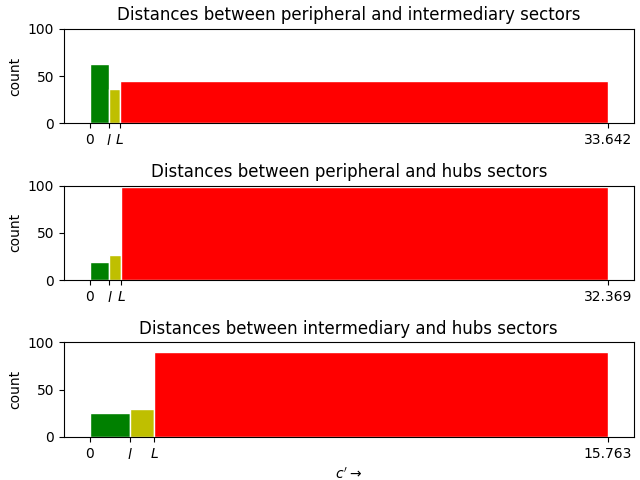
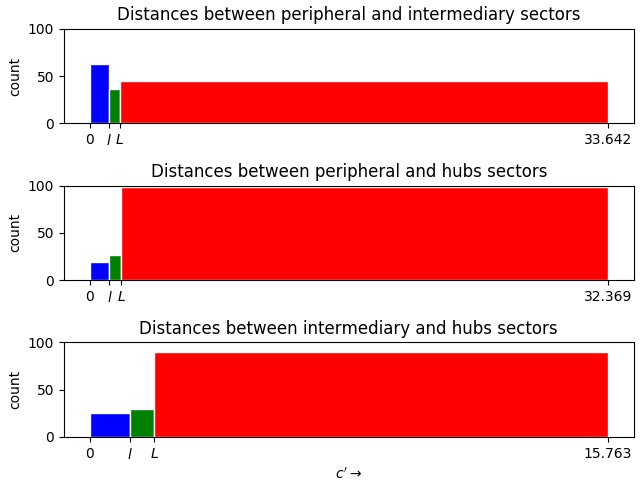
terminada primeira versao do artigo

Changed region(s): [[0.125, 0.8438, 0.25, 0.9375], [0.125, 0.125, 0.1875, 0.2812], [0.125, 0.5312, 0.1875, 0.5938]]

diff --git a/physicaa/elsarticle-template.tex b/physicaa/elsarticle-template.tex
@@ -1,6 +1,19 @@
 \documentclass[review]{elsarticle}
 
 \usepackage{lineno,hyperref}
+\usepackage{xcolor}
+\hypersetup{
+	%pagebackref=true,
+	pdfcreator={LaTeX with abnTeX2},
+	pdfkeywords={abnt}{latex}{abntex}{USPSC}{trabalho acadêmico}, 
+	colorlinks=true,       		% false: boxed links; true: colored links
+	linkcolor=blue,          	% color of internal links
+	citecolor=blue,        		% color of links to bibliography
+	filecolor=magenta,      		% color of file links
+	urlcolor=blue,
+	allbordercolors=black,
+	bookmarksdepth=4
+}
 \modulolinenumbers[5]
 \usepackage{amsmath}
 \usepackage{float}
@@ -215,14 +228,14 @@ These lists are as follows:
 \item List for discussion of the election reform\footnote{gmane.politics.election-methods is list ID in Gmane.}. English is the prevailing language. Abbreviated ELE from now on.
 \end{itemize} 
 
-Table~\ref{tab:genLists} holds an overview of the messages considered in each of these lists.
+Table~\ref{tab:genLists} holds an overview of the messages in each of these lists.
 MET was not used for the textual measurements because most messages are not written in English.
 The selection of these lists was performed in preliminary stages of this work,
 in compliance with~\cite{stab,thesis}, as a convenient, small and diverse set of lists to be considered in depth, and has no impact on the results as they are used only for illustration in Table~\ref{tab:genLists} and Section~\ref{subsec:di}.
 
 \begin{table}
 \centering
-\caption{Columns $date_1$ and $date_M$ have dates of first and last messages from the 20,000 messages considered in each email list.
+\caption{Columns $date_1$ and $date_M$ have dates of first and last messages from the 20,000 messages in each email list.
 $N$ is the number of participants (number of different email addresses),
 $\Gamma$ is the number of discussion threads (count of messages without antecedent),
 $\overline{M}$ is the number of messages missing in the 20,000 collection
@@ -260,7 +273,7 @@ and small-world properties, as expected for a number of social networks~\cite{bi
 \begin{figure}[!h]
 \centering
 \includegraphics[width=0.5\textwidth]{figs/criaRede3_}
-\caption{The formation of interaction networks from exchanged messages. Each node represents a participant. A reply from author B to a message from author A is regarded as evidence that B received information from A and yields a directed edge. Multiple messages add ``weight'' to a directed edge. Further details are given in Section~\ref{intNet}.}
+\caption{The formation of interaction networks from exchanged messages. Each node represents a participant. A reply from author B to a message from author A is regarded as evidence that B received information from A and yields a directed edge. Multiple messages add ``weight'' to a directed edge. Further information is provided in Section~\ref{intNet}.}
 \label{formationNetwork}
 \end{figure}
 
@@ -329,12 +342,9 @@ but results hold for sectors obtained using the strength.
 \includegraphics[width=\textwidth]{figs/fser__}
 \caption{Classification of vertices by comparing degree
 distributions~\cite{stab}.
-The binomial distribution of the Erd\"os-R\'enyi network model exhibits more intermediary vertices, while a scale-free network, associated with the power-law distribution, has more peripheral and hub vertices. The sector borders are defined with respect to the intersections of the distributions. Characteristic degrees are in the compact intervals: $[0,k_L]$, $(k_L,k_R]$, $(k_R,k_{max}]$ for the periphery, intermediary and hub sectors, the ``Erd\"os sectors''.
-The connectivity distribution of empirical interaction networks, e.g. derived from email lists, can be sectioned by comparison against the associated binomial distribution with the same number of vertices and edges. In this figure, a snapshot of 1000 messages from CPP list yields the degree distribution of an interaction network of 98 nodes and 235 edges. A thorough explanation of the method is provided in Section~\ref{sectioning}.}
+The binomial distribution of the Erd\"os-R\'enyi network model exhibits more intermediary vertices, while a scale-free network, associated with the power-law distribution, has more peripheral and hub vertices. The sector borders are defined with respect to the intersections of the distributions. Characteristic degrees are in the compact intervals: $[0,k_L]$, $(k_L,k_R]$, $(k_R,k_{max}]$ for the peripheral, intermediary and hubs sectors: the ``Erd\"os sectors''.
+Accordingly, the connectivity distribution of empirical interaction networks, e.g. derived from email lists, can be sectioned by comparison against the associated binomial distribution with the same number of vertices and edges. In this figure, a snapshot of 1000 messages from the CPP list yields the degree distribution of an interaction network of 98 nodes and 235 edges. A thorough explanation of the method is provided in Section~\ref{sectioning}.}
 \label{fig:setores}
-\begin{flushleft}\footnotesize
-Source: By the author.\
-\end{flushleft}
 \end{figure}
 
 \subsection{Text-related measures}
@@ -380,7 +390,7 @@ The topological and textual measures were related by:
 \item Principal components formation derived from the usual Principal Component Analysis.
 \end{enumerate}
 
-\subsection{Statistical distances}
+\subsection{Statistical distances}\label{sstat}
 An adaptation of the Kolmogorov-Smirnov test~\cite{kolm} was used to observe differences in textual content, as follows.
 Let $F$ and $F'$ be two empirical distribution functions, where $n$ and $n'$ are the number of observations on each sample.
 The two-sample Kolmogorov-Smirnov test rejects the null hypothesis, that the samples are drawn from the same underlying distribution, if:
@@ -495,8 +505,8 @@ distinct sectors, there was no evidence of difference on the size of the threads
 \subsection{Evidence that the texts from Erd\"os sectors differ}\label{subsec:di}
 This is the most important outcome from this paper: there strong enough evidence
 to support the assertion that the language used by distinct Erd\"os sectors are different.
-Tables~\ref{tab:kolTok}-\ref{tab:kolPctInter}
-illustrate three results:
+Figure~\ref{fdif} illustrates, and Tables~\ref{tab:kolTok}-\ref{tab:kolPctInter}
+exemplify three results:
 \begin{itemize}
  \item The statistical evidence that the textual production of the Erd\"os sectors is different.
 	 This can be noticed from the high values of $c'$ on these tables, clearly above reference values used for the acceptance of the null hypothesis (the null hypothesis being that the probability distributions generating the samples are the same). Also, we regarded as non-negligible the values often above 0.1 for the Kolmogorov-Smirnov statistics (the maximum difference between the cumulative distributions), which we recognized as relevant for assuming differences in the underlying distributions in our study (see Section~\ref{sec:ks}).
@@ -506,6 +516,19 @@ against the periphery and hubs than these extreme sectors between themselves
 This differentiation of the three sectors is a further indicative that the Erd\"os Sectioning described in Section~\ref{sectioning} reveals meaningful sectors of the networks.
  \item The evidence of difference (as measured by $c'$) between sectors on the same network (Tables~\ref{tab:kolTok}-\ref{tab:kolPct}) is often larger than found between the same sector from distinct networks (Tables~\ref{tab:kolSubInter}-\ref{tab:kolPctInter}).
  \end{itemize}
+
+\begin{figure}[!h]
+\centering
+\includegraphics[width=0.9\textwidth]{figs/hists}
+  \caption{Histograms of the $c'$ statistic between the Erd\"os sectos for all the language-related measurements performed. The histogram bins are limited by the values $l=1.22$, and $L=1.95$, which are related to the significance levels of 0.1 and 0.001, respectively, as described in Section~\ref{sstat}. 
+  In qualitative terms, one may associate the bars to:
+  measurements that are not evidence of difference (blue),
+  measurements that are evidence of difference (green),
+  and measurements that are strong evidence of difference (red).
+  Notice that, although the $c'$ values obtained by comparing the peripheral and intermediary sectors present less values in the red bar, the values reach the magnitudes comparable to the highest values obtained by comparing the peripheral and hubs sectors.
+  Further information is provided in Section~\ref{subsec:di}.}
+\label{fdif}
+\end{figure}
 
 Two measurements for each pair of sectors are in Tables~\ref{tab:kolTok}-\ref{tab:kolPct}.
  The top value is $c'$ while the bottom value is the Kolmogorov-Smirnov statistic.

diff --git a/physicaa/tables/ksInter.tex b/physicaa/tables/ksInter.tex
@@ -1,7 +1,6 @@
 \begin{table}
   \centering
   \caption{$c'$ values for the frequency of use of nouns. Comparison of the same sector between lists, each author is an observation. See subsection~\ref{subsec:di} for discussion and directions.}
-    \small
   \begin{tabular}{l| c c c c c c}
 & CPP-LAD & CPP-LAU & CPP-ELE & LAD-LAU & LAD-ELE & LAU-ELE \\\hline
 P & 1.35 & 4.05 & 5.80 & 3.00 & 5.41 & 4.94 \\
@@ -14,7 +13,6 @@ H & 0.98 & 1.94 & 3.17 & 1.32 & 3.82 & 4.47 \\
 \begin{table}
   \centering
   \caption{$c'$ values for the frequency of use of adjectives. Comparison of the same sector between lists, each author is an observation. See subsection~\ref{subsec:di} for discussion and directions.}
-    \small
   \begin{tabular}{l| c c c c c c}
  & CPP-LAD & CPP-LAU & CPP-ELE & LAD-LAU & LAD-ELE & LAU-ELE \\\hline
 P & 0.44 & 0.34 & 2.57 & 0.20 & 2.32 & 2.37 \\
@@ -27,7 +25,6 @@ H & 0.26 & 0.32 & 3.72 & 0.29 & 4.36 & 4.24 \\
 \begin{table}
   \centering
   \caption{$c'$ values for the frequency of use stopwords. Comparison of the same sector between lists, each author is an observation. See subsection~\ref{subsec:di} for discussion and directions.}
-    \small
   \begin{tabular}{l| c c c c c c}
  & CPP-LAD & CPP-LAU & CPP-ELE & LAD-LAU & LAD-ELE & LAU-ELE \\\hline
 P & 3.31 & 3.26 & 6.68 & 0.57 & 5.36 & 5.41 \\
@@ -40,7 +37,6 @@ H & 0.98 & 0.68 & 4.35 & 1.05 & 4.73 & 5.01 \\
 \begin{table}
   \centering
   \caption{$c'$ values for the frequency of use of punctuations among characters. Comparison of the same sector between lists, each author is an observation. See subsection~\ref{subsec:di} for discussion and directions.}
-    \small
   \begin{tabular}{l| c c c c c c}
  & CPP-LAD & CPP-LAU & CPP-ELE & LAD-LAU & LAD-ELE & LAU-ELE \\\hline
 P & 5.74 & 4.88 & 8.28 & 2.23 & 5.37 & 6.60 \\

diff --git a/physicaa/scripts/mkFigure.py b/physicaa/scripts/mkFigure.py
@@ -37,8 +37,8 @@ import pylab as p
 
 f=p.subplot(311)
 N, bins, patches = p.hist(pis, [0,1.22,1.95,max(pis)], edgecolor='white', linewidth=1)
-patches[0].set_facecolor('g')
-patches[1].set_facecolor('y')
+patches[0].set_facecolor('b')
+patches[1].set_facecolor('g')
 patches[2].set_facecolor('r')
 p.xticks((0,1.22,1.95,max(pis)), (0, r'$l$', r'$L$', max(pis))) # , rotation='vertical')
 p.ylabel('count')
@@ -47,8 +47,8 @@ p.title('Distances between peripheral and intermediary sectors')
 
 p.subplot(312)
 N, bins, patches = p.hist(phs, [0,1.22,1.95,max(phs)], edgecolor='white', linewidth=1)
-patches[0].set_facecolor('g')
-patches[1].set_facecolor('y')
+patches[0].set_facecolor('b')
+patches[1].set_facecolor('g')
 patches[2].set_facecolor('r')
 p.xticks((0,1.22,1.95,max(phs)), (0,r'$l$',r'$L$', max(phs)))
 p.ylabel('count')
@@ -57,8 +57,8 @@ p.title('Distances between peripheral and hubs sectors')
 
 p.subplot(313)
 N, bins, patches = p.hist(ihs, [0,1.22,1.95,max(ihs)], edgecolor='white', linewidth=1)
-patches[0].set_facecolor('g')
-patches[1].set_facecolor('y')
+patches[0].set_facecolor('b')
+patches[1].set_facecolor('g')
 patches[2].set_facecolor('r')
 p.xticks((0,1.22,1.95,max(ihs)), (0,r'$l$',r'$L$', max(ihs)))
 p.xlabel(r"$c' \rightarrow$")

diff --git a/physicaa/tables/geralInline_.tex b/physicaa/tables/geralInline_.tex
@@ -1,10 +1,10 @@
 \begin{table}[h!]
 \begin{center}
-\caption{Distribution of participants, messages and threads among each Erd\"os sector: ({\bf p.} for periphery, {\bf i.} for intermediary, 
+\caption{Participants, messages and threads among each Erd\"os sector: ({\bf p.} for periphery, {\bf i.} for intermediary, 
     {\bf h.} for hubs) in a total timespan of 0.72 years (from 2003-11-30T20:21:32 to 2004-08-19T18:11:24). $N$ is the number of participants, $M$ is the number of messages, $\Gamma$ is the number of threads, and $\gamma$ is the number of messages in a thread.
     The \% denotes the usual `per cent' with respect to the total quantity ($100\%$ for {\bf g.})
 	while $\mu$ and $\sigma$ denote mean and standard deviation. TAG of list: 10}\label{geralListas}    
-\begin{tabular}{l | c c c c}
+\begin{tabular}{l ? c | c c c}
  & {\bf g.} & {\bf p.} & {\bf i.} & {\bf h.} \\\specialrule{1.5pt}{1pt}{1pt}
 $N$ & 131  & 80  & 46  & 5 \\
 $N_{\%}$ & 100.00  & 61.07  & 35.11  & 3.82 \\\hline

diff --git a/physicaa/tables/ksPuns___.tex b/physicaa/tables/ksPuns___.tex
@@ -1,7 +1,7 @@
 \begin{table}[h!]
 \begin{center}
 	\caption{Measurements of $c'$ and the KS statistic related to the frequency of use of punctuations between the Erd\"os sectors and the whole network. The abbreviations are: g for global, p for peripheral, i for intermediary, h for hubs. See Section~\ref{sec:ks} for and explanation of the measures and Section~\ref{subsec:di} for discussion. TAG of list: 8}\label{tab:kolPct}
-\begin{tabular}{l | c c c c c c}
+\begin{tabular}{l ? c c c | c c c}
 {\bf } & {\bf p-g} & {\bf i-g} & {\bf h-g} & {\bf p-i} & {\bf p-h} & {\bf i-h} \\\hline
 $c'$ & 1.380  & 3.583  & 2.894  & 1.718  & 2.871  & 5.398 \\
 KS & 0.039  & 0.069  & 0.046  & 0.054  & 0.085  & 0.114 \\

diff --git a/physicaa/tables/ksSubs___.tex b/physicaa/tables/ksSubs___.tex
@@ -1,7 +1,7 @@
 \begin{table}[h!]
 \begin{center}
 \caption{Measurements of $c'$ and the KS statistic related to the frequency of use of nouns between the Erd\"os sectors and the whole network. The abbreviations are: g for global, p for peripheral, i for intermediary, h for hubs. See Section~\ref{sec:ks} for and explanation of the measures and Section~\ref{subsec:di} for discussion. TAG of list: 1}\label{tab:kolSub}
-\begin{tabular}{l | c c c c c c}
+\begin{tabular}{l ? c c c | c c c}
 {\bf } & {\bf p-g} & {\bf i-g} & {\bf h-g} & {\bf p-i} & {\bf p-h} & {\bf i-h} \\\hline
 $c'$ & 0.642  & 1.791  & 6.936  & 1.007  & 6.970  & 7.510 \\
 KS & 0.023  & 0.067  & 0.537  & 0.044  & 0.560  & 0.607 \\

diff --git a/physicaa/tables/ksAdjs___.tex b/physicaa/tables/ksAdjs___.tex
@@ -1,7 +1,7 @@
 \begin{table}[h!]
 \begin{center}
 \caption{Measurements of $c'$ and the KS statistic related to the frequency of use of adjectives between the Erd\"os sectors and the whole network. The abbreviations are: g for global, p for peripheral, i for intermediary, h for hubs. See Section~\ref{sec:ks} for and explanation of the measures and Section~\ref{subsec:di} for discussion. TAG of list: 3}
-\begin{tabular}{l | c c c c c c}
+\begin{tabular}{l ? c c c | c c c}
 {\bf } & {\bf p-g} & {\bf i-g} & {\bf h-g} & {\bf p-i} & {\bf p-h} & {\bf i-h} \\\hline
 $c'$ & 0.461  & 0.564  & 0.617  & 0.385  & 0.800  & 0.986 \\
 KS & 0.011  & 0.010  & 0.010  & 0.011  & 0.021  & 0.020 \\

diff --git a/physicaa/tables/ksTokens___.tex b/physicaa/tables/ksTokens___.tex
@@ -2,7 +2,7 @@
 \begin{center}
 	\caption{Measurements of $c'$ and the KS statistic related to sizes of tokens between the Erd\"os sectors and the whole network. The abbreviations are: g for global, p for peripheral, i for intermediary, h for hubs. See Section~\ref{sec:ks} for and explanation of the measures and Section~\ref{subsec:di} for discussion. TAG of list: 6}
 \label{tab:kolTok}
-\begin{tabular}{l | c c c c c c}
+\begin{tabular}{l ? c c c | c c c}
 {\bf } & {\bf p-g} & {\bf i-g} & {\bf h-g} & {\bf p-i} & {\bf p-h} & {\bf i-h} \\\hline
 $c'$ & 4.327  & 17.168  & 7.851  & 18.907  & 7.833  & 15.540 \\
 KS & 0.014  & 0.115  & 0.044  & 0.129  & 0.045  & 0.129 \\

diff --git a/physicaa/tables/ksWords___.tex b/physicaa/tables/ksWords___.tex
@@ -1,7 +1,7 @@
 \begin{table}[h!]
 \begin{center}
 \caption{Measurements of $c'$ and the KS statistic related to sizes of known words between the Erd\"os sectors and the whole network. The abbreviations are: g for global, p for peripheral, i for intermediary, h for hubs. See Section~\ref{sec:ks} for and explanation of the measures and Section~\ref{subsec:di} for discussion. TAG of list: 1}
-\begin{tabular}{l | c c c c c c}
+\begin{tabular}{l ? c c c | c c c}
 {\bf } & {\bf p-g} & {\bf i-g} & {\bf h-g} & {\bf p-i} & {\bf p-h} & {\bf i-h} \\\hline
 $c'$ & 5.904  & 5.264  & 5.549  & 9.547  & 7.073  & 4.058 \\
 KS & 0.043  & 0.040  & 0.150  & 0.083  & 0.193  & 0.111 \\

diff --git a/physicaa/tables/ksSents___.tex b/physicaa/tables/ksSents___.tex
@@ -1,7 +1,7 @@
 \begin{table}[h!]
 \begin{center}
 \caption{Measurements of $c'$ and the KS statistic related to sizes of sentences between the Erd\"os sectors and the whole network. The abbreviations are: g for global, p for peripheral, i for intermediary, h for hubs. See Section~\ref{sec:ks} for and explanation of the measures and Section~\ref{subsec:di} for discussion. TAG of list: 2}
-\begin{tabular}{l | c c c c c c}
+\begin{tabular}{l ? c c c | c c c}
 {\bf } & {\bf p-g} & {\bf i-g} & {\bf h-g} & {\bf p-i} & {\bf p-h} & {\bf i-h} \\\hline
 $c'$ & 0.733  & 2.077  & 2.834  & 1.642  & 2.589  & 4.139 \\
 KS & 0.020  & 0.038  & 0.059  & 0.048  & 0.080  & 0.097 \\
